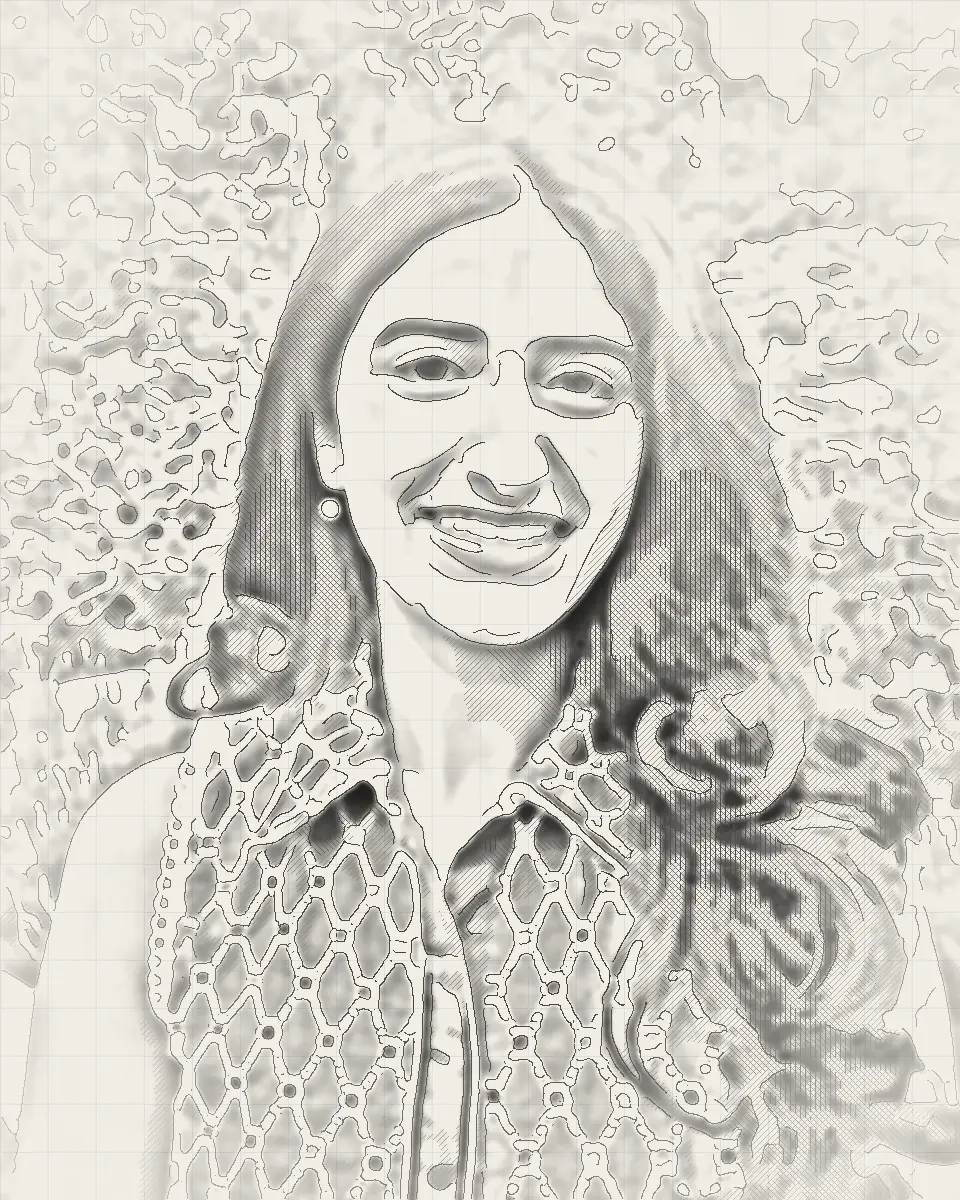
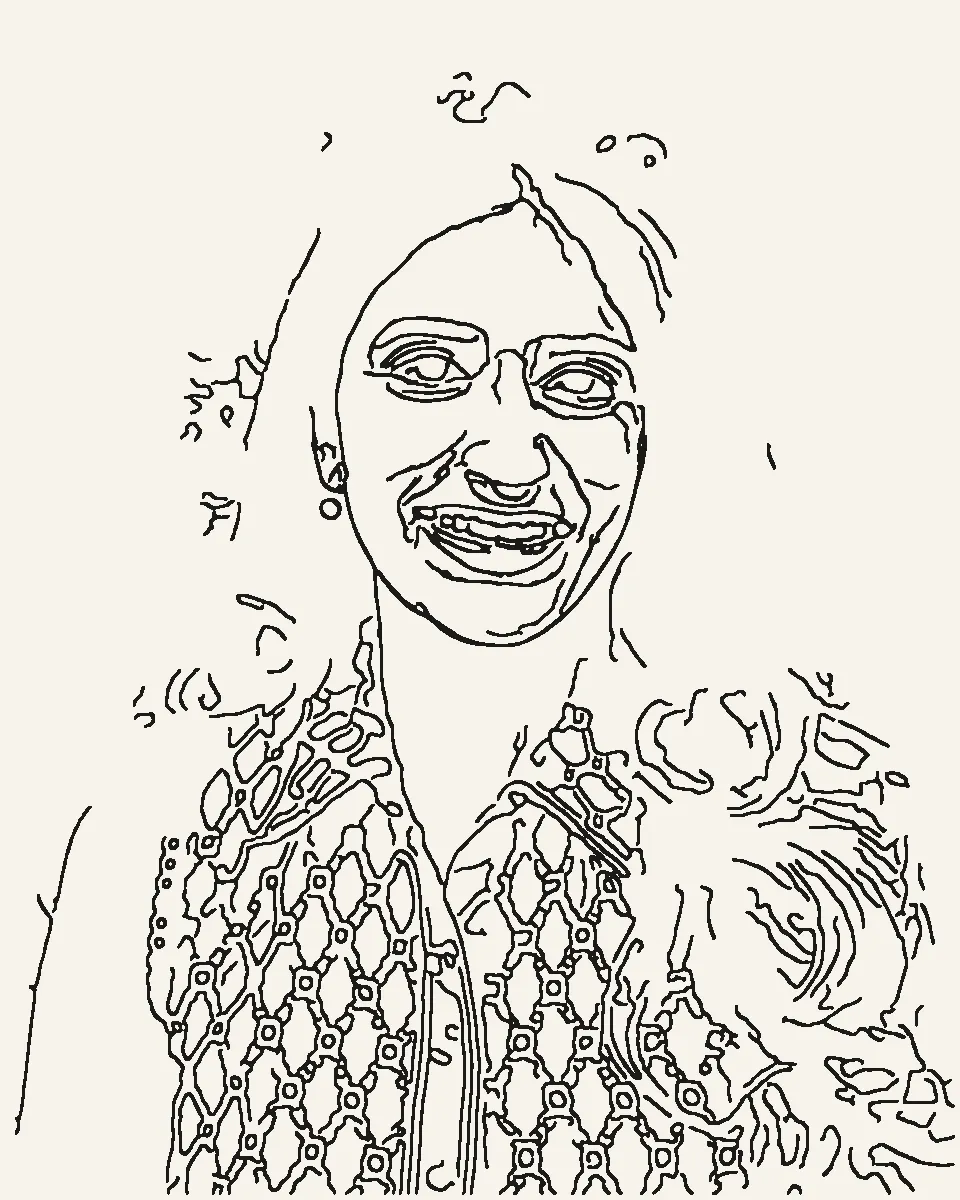
Portrait reveal: Warhol-style line art in a 40px circle
Claude-Session: https://claude.ai/code/session_01M3sQFEaxMFSCL1fvnxLDvQ

diff --git a/src/components/Hero.css b/src/components/Hero.css
@@ -41,14 +41,14 @@
   height: 100%;
   object-fit: cover;
 }
-/* The sketch sits over the photo, masked to a 60px circle at the pointer. */
+/* The line drawing sits over the photo, masked to a 40px circle at the pointer. */
 .hero__portrait-sketch {
   position: absolute;
   inset: 0;
   opacity: 0;
   pointer-events: none;
-  -webkit-mask-image: radial-gradient(circle 60px at var(--reveal-x, 50%) var(--reveal-y, 50%), #000 92%, transparent 100%);
-  mask-image: radial-gradient(circle 60px at var(--reveal-x, 50%) var(--reveal-y, 50%), #000 92%, transparent 100%);
+  -webkit-mask-image: radial-gradient(circle 40px at var(--reveal-x, 50%) var(--reveal-y, 50%), #000 92%, transparent 100%);
+  mask-image: radial-gradient(circle 40px at var(--reveal-x, 50%) var(--reveal-y, 50%), #000 92%, transparent 100%);
   transition: opacity var(--dur-micro) var(--ease-pen);
 }
 .hero__portrait-frame[data-reveal] {

diff --git a/src/components/Hero.tsx b/src/components/Hero.tsx
@@ -19,7 +19,7 @@ export function Hero() {
             I design coherent &amp; scalable products for complex businesses.
           </h1>
           <figure className="hero__portrait">
-            {/* Hovering with a mouse or pen reveals a pen-sketch version of the photo under the cursor. */}
+            {/* Hovering with a mouse or pen reveals a line-art version of the photo under the cursor. */}
             <div className="hero__portrait-frame" onPointerMove={revealAt} onPointerLeave={revealEnd}>
               <img
                 src={portrait}
